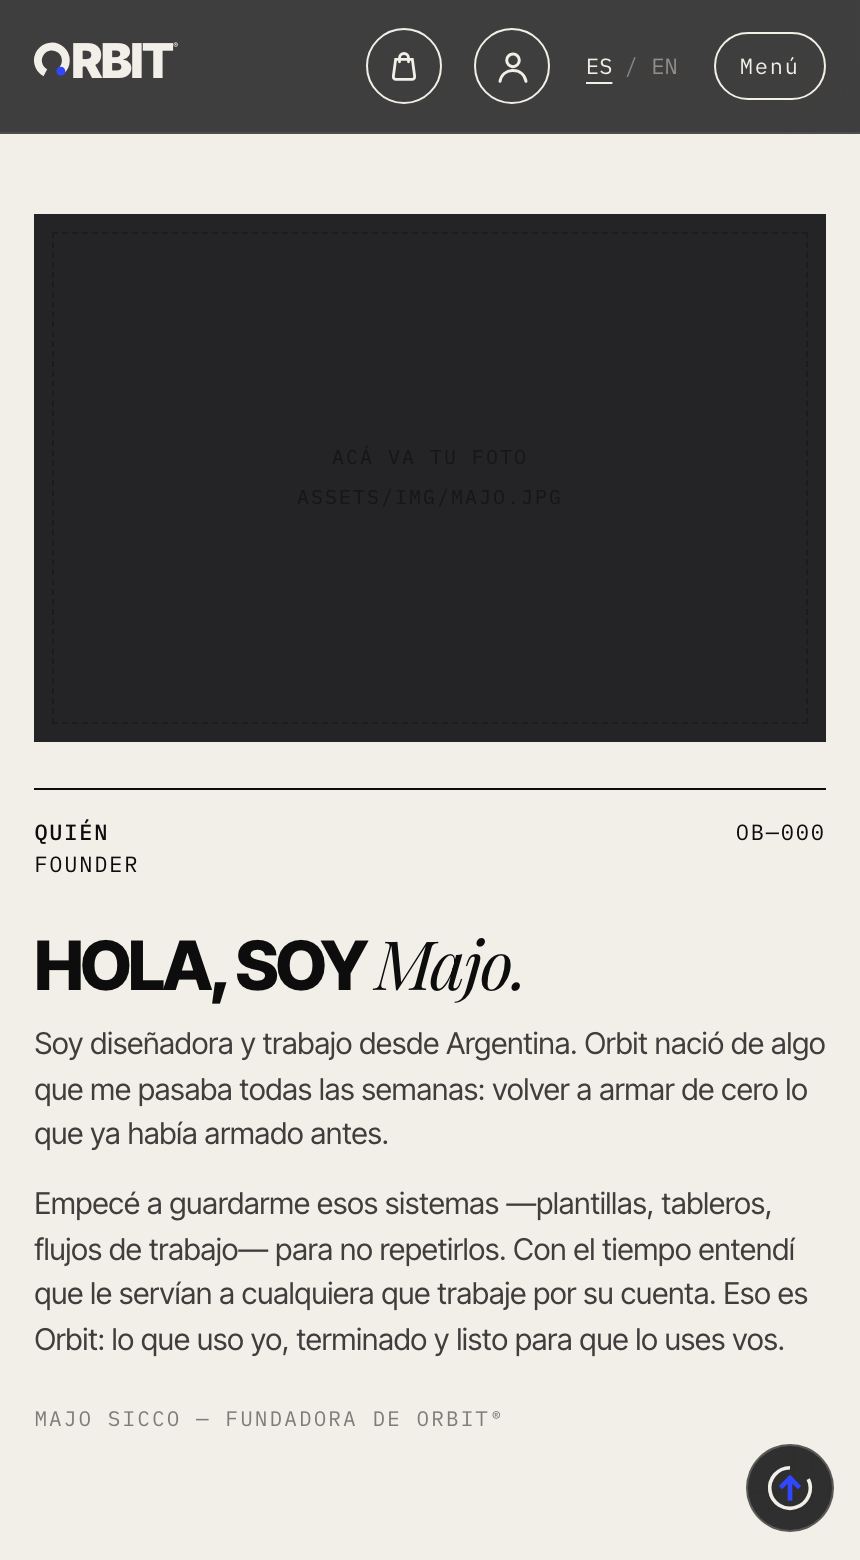
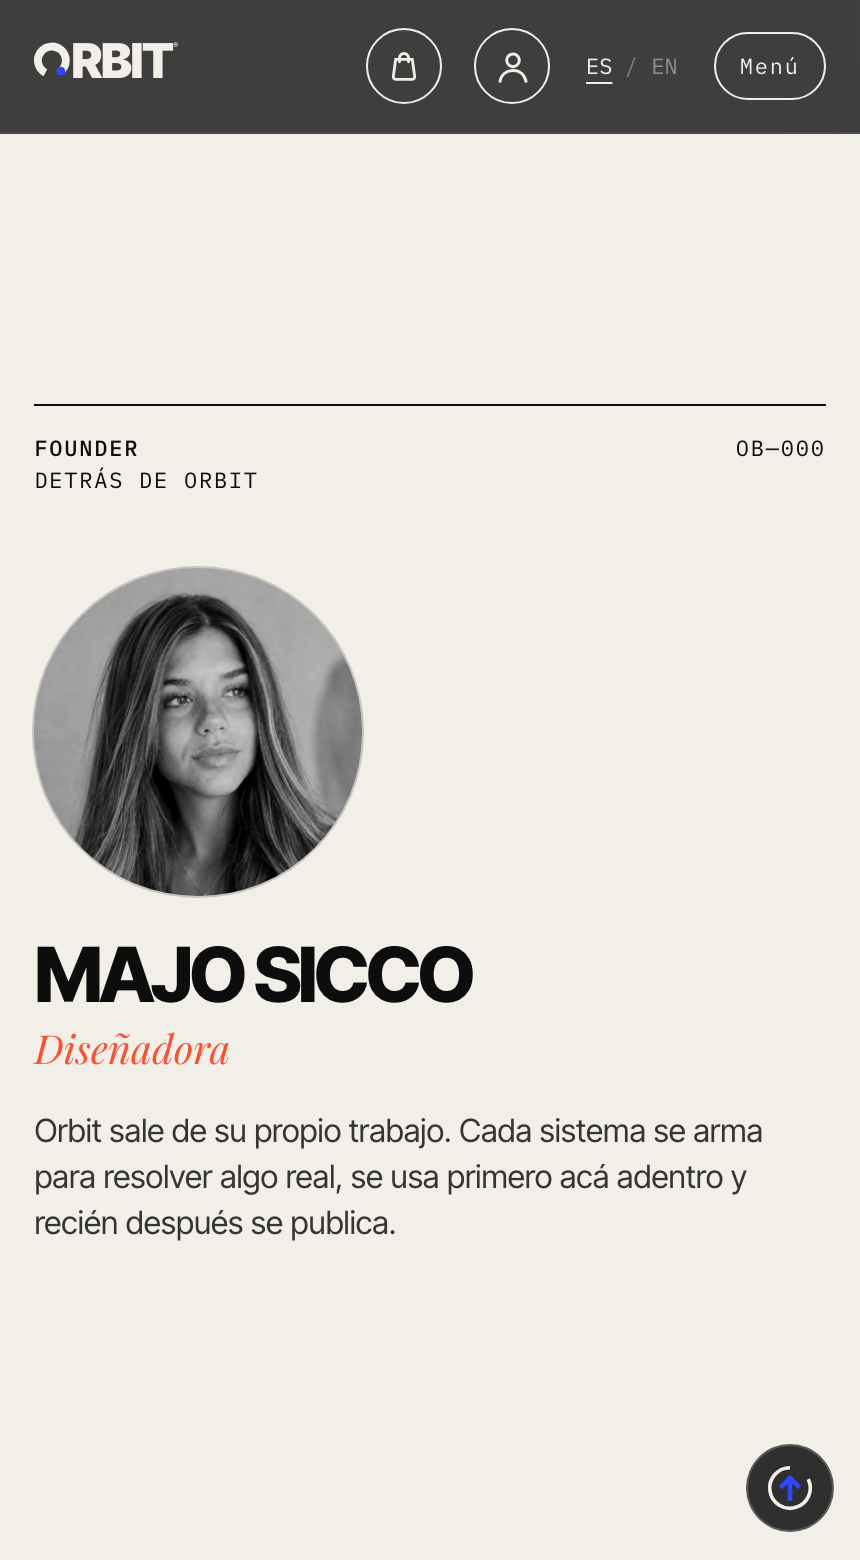
nosotros: cuatro versiones de la seccion Quien para comparar (?q=1..4)

diff --git a/nosotros.html b/nosotros.html
@@ -117,30 +117,75 @@
 
 
 main>section.sec{min-height:100svh;display:flex;flex-direction:column;justify-content:center}
-/* quién: la cara detrás de Orbit. Redonda, porque el símbolo de la marca
-   es un anillo y la foto rima con él. La foto todavía no existe: el hueco
-   avisa dónde va y desaparece solo en cuanto el archivo esté. */
-.quien-g{display:grid;grid-template-columns:auto minmax(0,1fr);gap:clamp(22px,4.5vw,64px);align-items:center}
-.quien .retrato{position:relative;width:clamp(150px,24vw,280px);aspect-ratio:1;border-radius:50%;
-  background:var(--k3);background-size:cover;background-position:center 18%;
-  display:grid;place-items:center;box-shadow:0 0 0 1px rgba(13,13,14,.18);
-  /* en blanco y negro, como el resto de las fotos del sitio. El archivo
-     queda en color: esto es sólo cómo se muestra. */
+/* quién: cuatro maneras de presentar a la fundadora (?q=1..4).
+   1 retrato al centro · 2 dentro del anillo de la marca
+   3 el nombre gigante y la foto encima · 4 ficha, como un producto
+   En todas la foto es grande: es la prueba de confianza de la página. */
+#quien .retrato{position:relative;aspect-ratio:1;border-radius:50%;overflow:hidden;
+  background:var(--k3) center 18%/cover;box-shadow:0 0 0 1px rgba(13,13,14,.16);
   filter:grayscale(1) contrast(1.04)}
-.quien .retrato .falta{display:none;text-align:center;font-size:9.5px;letter-spacing:.1em;
-  text-transform:uppercase;opacity:.55;line-height:2;padding:22px}
-.quien .retrato.sinfoto .falta{display:block}
-.quien-t{display:flex;flex-direction:column;gap:clamp(8px,1.2vh,14px)}
-.quien-t .nombre{margin:0;font-weight:800;text-transform:uppercase;letter-spacing:-.05em;
-  line-height:.88;font-size:clamp(38px,6.4vw,104px)}
-.quien-t .rol{margin:0;font-family:var(--serif);font-style:italic;color:var(--or);
-  font-size:clamp(20px,2.4vw,38px);line-height:1}
-.quien-t .dice{margin:clamp(8px,1.4vh,16px) 0 0;font-size:clamp(16px,1.5vw,22px);
-  line-height:1.42;max-width:44ch;opacity:.82}
+#quien .retrato .falta{position:absolute;inset:0;display:none;place-items:center;text-align:center;
+  font-size:9.5px;letter-spacing:.1em;text-transform:uppercase;opacity:.55;line-height:2;padding:22px}
+#quien .retrato.sinfoto .falta{display:grid}
+#quien .nom{margin:0;font-weight:800;text-transform:uppercase;letter-spacing:-.055em;line-height:.86}
+#quien .ofi{margin:0;font-family:var(--serif);font-style:italic;color:var(--or);line-height:1}
+#quien .dice{margin:0;line-height:1.45;opacity:.82}
+
+/* 1 · el retrato al centro */
+.q1 #quien .wrap{display:flex;flex-direction:column;align-items:center;text-align:center;
+  gap:clamp(14px,2.2vh,26px)}
+.q1 #quien .retrato{width:clamp(220px,46vw,380px)}
+.q1 #quien .rot{font-family:var(--mono);font-size:10.5px;letter-spacing:.16em;text-transform:uppercase;opacity:.5}
+.q1 #quien .nom{font-size:clamp(40px,9vw,120px)}
+.q1 #quien .ofi{font-size:clamp(20px,3vw,40px)}
+.q1 #quien .dice{font-size:clamp(15px,1.4vw,20px);max-width:46ch}
+
+/* 2 · dentro del anillo de la marca */
+.q2 #quien .wrap{display:flex;flex-direction:column;align-items:center;text-align:center;
+  gap:clamp(14px,2.4vh,28px)}
+.q2 #quien .anillo{position:relative;width:clamp(250px,58vw,420px);aspect-ratio:1;display:grid;place-items:center}
+.q2 #quien .anillo svg{position:absolute;inset:0;width:100%;height:100%}
+.q2 #quien .anillo .retrato{width:70%}
+.q2 #quien .nom{font-size:clamp(34px,7.6vw,96px)}
+.q2 #quien .ofi{font-size:clamp(18px,2.6vw,34px)}
+.q2 #quien .dice{font-size:clamp(15px,1.4vw,20px);max-width:44ch}
+
+/* 3 · el nombre gigante, la foto encima */
+.q3 #quien .wrap{display:flex;flex-direction:column;gap:clamp(12px,2vh,22px)}
+.q3 #quien .cruce{position:relative;display:grid;place-items:center;padding:clamp(20px,4vh,54px) 0}
+.q3 #quien .cruce .nom{position:absolute;left:0;right:0;text-align:center;
+  font-size:clamp(54px,17vw,230px);letter-spacing:-.06em;opacity:.16;pointer-events:none}
+.q3 #quien .cruce .retrato{width:clamp(200px,44vw,330px);position:relative;z-index:2}
+.q3 #quien .pie3q{display:flex;align-items:baseline;justify-content:space-between;gap:16px;flex-wrap:wrap;
+  border-top:1px solid rgba(13,13,14,.16);padding-top:clamp(10px,1.6vh,16px)}
+.q3 #quien .pie3q .chico{font-weight:800;text-transform:uppercase;letter-spacing:-.04em;
+  font-size:clamp(22px,5vw,44px);line-height:1}
+.q3 #quien .ofi{font-size:clamp(18px,2.4vw,32px)}
+.q3 #quien .dice{font-size:clamp(15px,1.4vw,19px);max-width:48ch}
+
+/* 4 · ficha, con el mismo lenguaje que las fichas de producto */
+.q4 #quien .wrap{display:grid;grid-template-columns:auto minmax(0,1fr);gap:clamp(20px,4vw,56px);align-items:center}
+.q4 #quien .retrato{width:clamp(180px,34vw,320px)}
+.q4 #quien .nom{font-size:clamp(30px,5.6vw,72px)}
+.q4 #quien .ofi{font-size:clamp(17px,2.2vw,30px);margin-bottom:clamp(8px,1.4vh,14px)}
+.q4 #quien .datos{display:grid;grid-template-columns:1fr 1fr}
+.q4 #quien .datos > div{border-top:1px solid rgba(13,13,14,.16);padding:clamp(7px,1.1vh,11px) 0}
+.q4 #quien .datos small{display:block;font-family:var(--mono);font-size:9.5px;letter-spacing:.1em;
+  text-transform:uppercase;opacity:.45}
+.q4 #quien .datos b{display:block;font-weight:700;font-size:clamp(14px,1.4vw,19px);margin-top:2px}
+.q4 #quien .dice{font-size:clamp(14.5px,1.3vw,18px);max-width:42ch;margin-top:clamp(8px,1.4vh,14px)}
 @media (max-width:860px){
-  .quien-g{grid-template-columns:1fr;gap:clamp(18px,3vh,28px);justify-items:start}
-  .quien .retrato{width:clamp(132px,38vw,200px)}
+  .q4 #quien .wrap{grid-template-columns:1fr;justify-items:start;gap:clamp(16px,3vh,24px)}
 }
+
+/* selector temporal */
+.selq{position:fixed;right:10px;bottom:calc(14px + env(safe-area-inset-bottom,0px));z-index:60;
+  display:flex;gap:3px;align-items:center;font-family:var(--mono);font-size:10px;
+  background:rgba(13,13,14,.88);border:1px solid rgba(242,239,232,.2);border-radius:999px;
+  padding:4px 7px;color:#F2EFE8;backdrop-filter:blur(8px)}
+.selq b{opacity:.45;font-weight:400;padding-right:3px}
+.selq a{color:inherit;opacity:.5;text-decoration:none;padding:3px 7px;border-radius:999px;line-height:1}
+.selq a.on{opacity:1;background:var(--or);color:#0D0D0E}
 
 /* manifiesto editorial */
 .mf-open{font-weight:800;font-size:clamp(46px,7.2vw,124px);letter-spacing:-.05em;line-height:.88;text-transform:uppercase;margin:0;max-width:14ch}
@@ -189,22 +234,8 @@ main>section.sec{min-height:100svh;display:flex;flex-direction:column;justify-co
   </div>
 </section>
 
-<!-- QUIÉN -->
-<section class="sec light" id="quien">
-  <div class="wrap quien">
-    <div class="shead mono"><div><b>Founder</b><span data-l="es">Detrás de Orbit</span><span data-l="en">Behind Orbit</span></div><div style="text-align:right">OB—000</div></div>
-    <div class="quien-g">
-      <div class="retrato" data-photo="majo" role="img" data-aria-es="Majo Sicco, fundadora de Orbit" data-aria-en="Majo Sicco, founder of Orbit">
-        <span class="falta mono"><span data-l="es">Acá va tu foto<br>assets/img/majo.jpg</span><span data-l="en">Your photo goes here<br>assets/img/majo.jpg</span></span>
-      </div>
-      <div class="quien-t rv">
-        <h2 class="nombre">Majo Sicco</h2>
-        <p class="rol"><span data-l="es">Diseñadora</span><span data-l="en">Designer</span></p>
-        <p class="dice"><span data-l="es">Orbit sale de su propio trabajo. Cada sistema se arma para resolver algo real, se usa primero acá adentro y recién después se publica.</span><span data-l="en">Orbit comes out of her own work. Every system is built to solve something real, used here first, and published only after that.</span></p>
-      </div>
-    </div>
-  </div>
-</section>
+<!-- QUIÉN — el contenido lo arma el JS según la versión elegida (?q=1..4) -->
+<section class="sec light" id="quien"></section>
 
 <section class="sec dark" id="manifiesto">
   <div class="wrap">
@@ -254,13 +285,56 @@ else {
 }
 
 const CH = [[['Idea','Idea'],['Aparece. Todavía no tiene forma.','It appears. It has no shape yet.'],140,false],[['Sistema','System'],['Una buena herramienta la ordena.','A good tool gives it structure.'],90,false],[['Acción','Action'],['El sistema convierte intención en acción.','The system turns intention into action.'],40,false],[['Progreso','Progress'],['Y la acción se vuelve progreso.','And action becomes progress.'],0,true]];
-/* el hueco del retrato avisa sólo mientras la foto no exista */
-(function retrato() {
-  const r = $('#quien .retrato');
-  if (!r) return;
+/* quién: cuatro versiones para comparar (?q=1..4) */
+(function quien() {
+  const zona = $('#quien');
+  if (!zona) return;
+  const QV = Math.min(4, Math.max(1, +(new URLSearchParams(location.search).get('q')) || 1));
+  document.body.classList.add('q' + QV);
+
+  const foto = `<div class="retrato" data-photo="majo" role="img" data-aria-es="Majo Sicco, fundadora de Orbit" data-aria-en="Majo Sicco, founder of Orbit"><span class="falta mono">${
+    L('Acá va tu foto<br>assets/img/majo.jpg','Your photo goes here<br>assets/img/majo.jpg')}</span></div>`;
+  const nombre = 'Majo Sicco';
+  const oficio = L('Diseñadora','Designer');
+  const dice = L('Orbit sale de su propio trabajo. Cada sistema se arma para resolver algo real, se usa primero acá adentro y recién después se publica.',
+                 'Orbit comes out of her own work. Every system is built to solve something real, used here first, and published only after that.');
+  const cabeza = `<div class="shead mono"><div><b>Founder</b>${
+    L('Detrás de Orbit','Behind Orbit')}</div><div style="text-align:right">OB—000</div></div>`;
+
+  const armados = {
+    1: `<div class="wrap"><span class="rot">Founder</span>${foto}
+        <h2 class="nom">${nombre}</h2><p class="ofi">${oficio}</p><p class="dice">${dice}</p></div>`,
+    2: `<div class="wrap">${cabeza}
+        <div class="anillo">${ORBIT.sym({gap:64, ring:C.k, dot:C.blue, dotOn:true})}${foto}</div>
+        <h2 class="nom">${nombre}</h2><p class="ofi">${oficio}</p><p class="dice">${dice}</p></div>`,
+    3: `<div class="wrap">${cabeza}
+        <div class="cruce"><h2 class="nom">${nombre}</h2>${foto}</div>
+        <div class="pie3q"><span class="chico">${nombre}</span><p class="ofi">${oficio}</p></div>
+        <p class="dice">${dice}</p></div>`,
+    4: `<div class="wrap">${foto}
+        <div><h2 class="nom">${nombre}</h2><p class="ofi">${oficio}</p>
+          <div class="datos">
+            <div><small>${L('Rol','Role')}</small><b>Founder</b></div>
+            <div><small>${L('Oficio','Craft')}</small><b>${oficio}</b></div>
+            <div><small>${L('Desde','From')}</small><b>Argentina</b></div>
+            <div><small>${L('Orbit','Orbit')}</small><b>Est. 2026</b></div>
+          </div>
+          <p class="dice">${dice}</p></div></div>`,
+  };
+  zona.innerHTML = armados[QV];
+  $$('[data-photo]', zona).forEach(el => el.style.backgroundImage = `url(assets/img/${el.dataset.photo}.jpg?v=12)`);
+  const r = $('.retrato', zona);
   const im = new Image();
   im.onerror = () => r.classList.add('sinfoto');
   im.src = 'assets/img/majo.jpg?v=12';
+
+  const caja = document.createElement('div');
+  caja.className = 'selq';
+  caja.innerHTML = '<b>Quién</b>' + [1,2,3,4].map(n => {
+    const u = new URLSearchParams(location.search); u.set('q', n);
+    return `<a href="?${u}#quien" class="${n === QV ? 'on' : ''}">${n}</a>`;
+  }).join('');
+  document.body.appendChild(caja);
 })();
 
 $('#chain').innerHTML = CH.map(([t,d,g,dot],i) => `<div class="rv"><span class="mono dim">0${i+1}</span><div class="s">${sym({gap:g, ring:C.b, dot:C.blue, dotOn:dot})}</div><div><b>${L(...t)}</b><p>${L(...d)}</p></div></div>`).join('');
